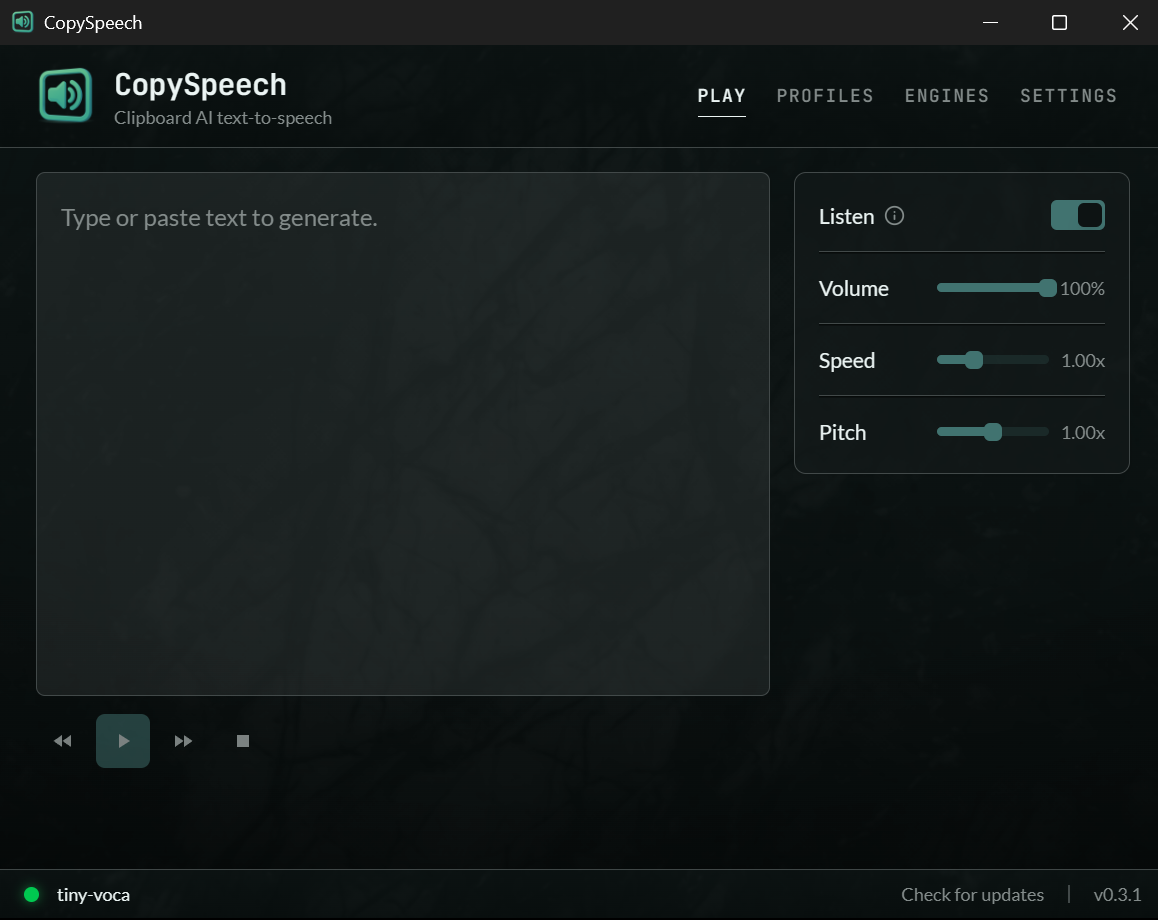
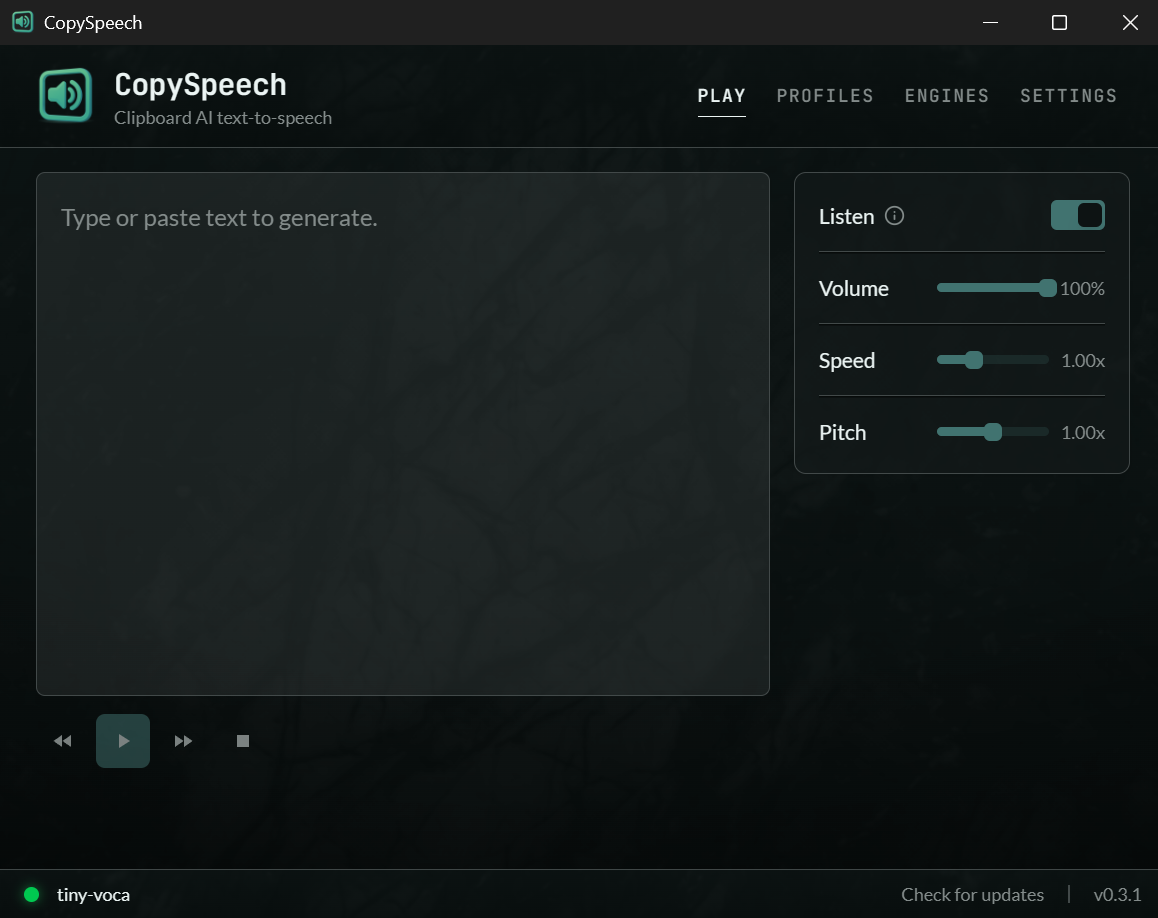
feat(landing): acknowledgments block, legal lines, and screenshot depth
- Acknowledgments header and thanks line match the Settings About footer.
- Legal lines and the maker line share one uppercase style.
- Screenshot gets the hero shadow; dark mode gets the glow.
- Screenshot PNGs lose two black bottom rows.
- Lede uses the brand line in English.
- Drop the unused landing.providers.title key.
- README drops the Control server section.

diff --git a/src/lib/components/landing/landing.css b/src/lib/components/landing/landing.css
@@ -259,7 +259,7 @@
 }
 .landing .win {
   position: relative;
-  max-width: 600px;
+  max-width: 750px;
   margin: 0 auto;
   padding: 32px;
   background: var(--card);
@@ -484,13 +484,30 @@
 /* Supported engines: two thin marquee rows, the same as the Settings About page. The JS
    action (#lib/utils/marquee) drives the scroll; these rules only style it. */
 .landing .providers {
-  padding: 40px 0;
+  padding: 72px 0 56px;
   border-top: 1px solid var(--border);
+}
+/* Same as the Settings About acknowledgments header: a small uppercase label. */
+.landing .providers .ack-title {
+  margin: 0;
+  font: 500 11px/16px var(--mono);
+  letter-spacing: 0.08em;
+  text-align: center;
+  text-transform: uppercase;
+  color: var(--muted-foreground);
+}
+.landing .providers .ack-thanks {
+  margin: 24px 0 0;
+  font: 500 11px/16px var(--mono);
+  letter-spacing: 0.08em;
+  text-align: center;
+  text-transform: uppercase;
+  color: var(--muted-foreground);
 }
 .landing .providers .marquee {
   width: 100%;
   max-width: 480px;
-  margin: 12px auto 0;
+  margin: 20px auto 0;
   overflow: hidden;
   user-select: none;
   touch-action: pan-y;
@@ -617,13 +634,20 @@
   display: flex;
   flex-direction: column;
   align-items: center;
-  gap: 12px;
+  gap: 24px;
   margin: 0;
 }
+/* Same depth as the hero stage: a large soft shadow, a glow in dark mode. */
 .landing .shot img {
-  width: min(1000px, 100%);
+  width: min(750px, 100%);
   border: 1px solid var(--border);
   border-radius: var(--radius);
+  box-shadow: 0 24px 60px oklch(0.16 0 0 / 0.08);
+}
+.dark .landing .shot img {
+  box-shadow:
+    0 0 130px oklch(0.95 0 0 / 0.18),
+    0 0 36px oklch(0.95 0 0 / 0.14);
 }
 .dark .landing .shot .shot-light {
   display: none;
@@ -660,8 +684,8 @@
   display: flex;
   flex-direction: column;
   align-items: center;
-  gap: 16px;
-  padding: 32px 16px 40px;
+  gap: 24px;
+  padding: 48px 16px 56px;
   border-top: 1px solid var(--border);
   background: var(--lift);
   text-align: center;
@@ -695,6 +719,13 @@
   text-transform: uppercase;
   color: var(--muted-foreground);
 }
+.landing footer .legal {
+  margin: 0;
+  font: 500 11px/16px var(--mono);
+  letter-spacing: 0.08em;
+  text-transform: uppercase;
+  color: var(--muted-foreground);
+}
 .landing footer .heart {
   display: inline-block;
   width: 1em;
@@ -721,7 +752,7 @@
     padding: 56px 0;
   }
   .landing .providers {
-    padding: 32px 0;
+    padding: 56px 0 40px;
   }
   .landing .nav a {
     padding: 0 8px;

diff --git a/src/lib/components/landing/providers.svelte b/src/lib/components/landing/providers.svelte
@@ -125,7 +125,7 @@
 
 <div class="wrap">
   <section class="providers" aria-labelledby="providers-title">
-    <h2 class="sr-only" id="providers-title">{$_("landing.providers.title")}</h2>
+    <h2 class="ack-title" id="providers-title">{$_("settings.about.acknowledgments")}</h2>
     <!-- Two thin rows, one per direction, the same marquee as the Settings About page.
          Clones stay mouse-clickable (no inert: each copy is narrower than the row, so a
          visible clone would swallow clicks). They keep aria-hidden and tabindex=-1. -->
@@ -147,5 +147,6 @@
         </div>
       </div>
     {/each}
+    <p class="ack-thanks">{$_("settings.about.acknowledgmentsTagline")}</p>
   </section>
 </div>

diff --git a/src/lib/components/landing/footer.svelte b/src/lib/components/landing/footer.svelte
@@ -51,11 +51,10 @@
       ({new Date().getFullYear()})</span
     >
   </p>
-  <p class="small">
+  <p class="legal">
     {$_("landing.footer.nameOrigin")}
-    <a href={POEM_URL} target="_blank" rel="noopener noreferrer"
-      >“The Most of It” by Robert Frost (1942)</a
-    >
+    <a href={POEM_URL} target="_blank" rel="noopener noreferrer">“The Most of It” by Robert Frost</a
+    > (1942)
   </p>
-  <p class="small">{$_("landing.footer.license")}</p>
+  <p class="legal">{$_("landing.footer.license")}</p>
 </footer>

diff --git a/src/lib/components/landing/screenshots.svelte b/src/lib/components/landing/screenshots.svelte
@@ -8,15 +8,15 @@
       <img
         class="shot-light"
         src="/screen-0.3.1-light.png"
-        width="1000"
-        height="794"
+        width="1158"
+        height="918"
         alt={$_("landing.screenshots.alt")}
       />
       <img
         class="shot-dark"
         src="/screen-0.3.1-dark.png"
-        width="1000"
-        height="794"
+        width="1158"
+        height="918"
         alt={$_("landing.screenshots.alt")}
       />
       <figcaption>{$_("landing.screenshots.caption")}</figcaption>

diff --git a/src/lib/i18n/types.ts b/src/lib/i18n/types.ts
@@ -642,7 +642,6 @@ export type TranslationKeys =
   | "landing.hero.pauseDemo"
   | "landing.hero.playDemo"
   | "landing.hero.previewLabel"
-  | "landing.providers.title"
   | "landing.providers.cloud"
   | "landing.providers.offline"
   | "landing.features.title"

diff --git a/README.md b/README.md
@@ -33,7 +33,6 @@ CopySpeech reads your clipboard aloud. Copy the same text twice within 1.5 secon
 - **Text cleanup.** Strips markdown, expands URLs, and normalizes Unicode.
 - **Duck other apps (Windows).** Other apps get quieter while CopySpeech speaks.
 - **Browser companion.** Reads selected text on a page. Chrome, Edge, and Firefox are supported. The page highlights each word as it plays.
-- **Control server.** A local HTTP API for scripts and tools. See [Control server](#control-server).
 - **Interface.** 9 languages, right-to-left layouts, dark and light themes, tray icon, and auto-updates.
 
 ## Install
@@ -49,7 +48,7 @@ Download a build from [Releases](https://github.com/ilyaizen/CopySpeech/releases
 
 On first launch, onboarding asks you to pick an engine and a voice. Kokoro is the default.
 
-**Linux:** Wayland blocks global hotkeys. Use double-copy, the tray, or a compositor keybind that calls the [control server](#control-server).
+**Linux:** Wayland blocks global hotkeys. Use double-copy or the tray.
 
 ### Browser companion (Chrome)
 
@@ -64,19 +63,6 @@ Installed Windows builds register the Chrome host at launch. Edge, Firefox, Linu
 
 - **Hermes Desktop and DeepSeek Harness (DSH) plugins.** Speak new assistant replies in those apps. See [copyspeech-dsh/README.md](copyspeech-dsh/README.md) for DSH.
 - **Pi extension and Claude Code hook.** Speak final assistant replies. See [docs/agent-voice.md](docs/agent-voice.md).
-
-## Control server
-
-A local HTTP API on `127.0.0.1:43117`.
-
-| Route                         | Purpose                                     |
-| ----------------------------- | ------------------------------------------- |
-| `GET /health`                 | Check that the app runs                     |
-| `GET /status`                 | Read the current caption                    |
-| `POST /speak`                 | Speak text. Pass `wait` to block until done |
-| `POST /pause`, `POST /resume` | Pause or resume a reading                   |
-| `POST /seek`                  | Move a reading by a signed step             |
-| `POST /stop`                  | Stop playback                               |
 
 ## Development
 
